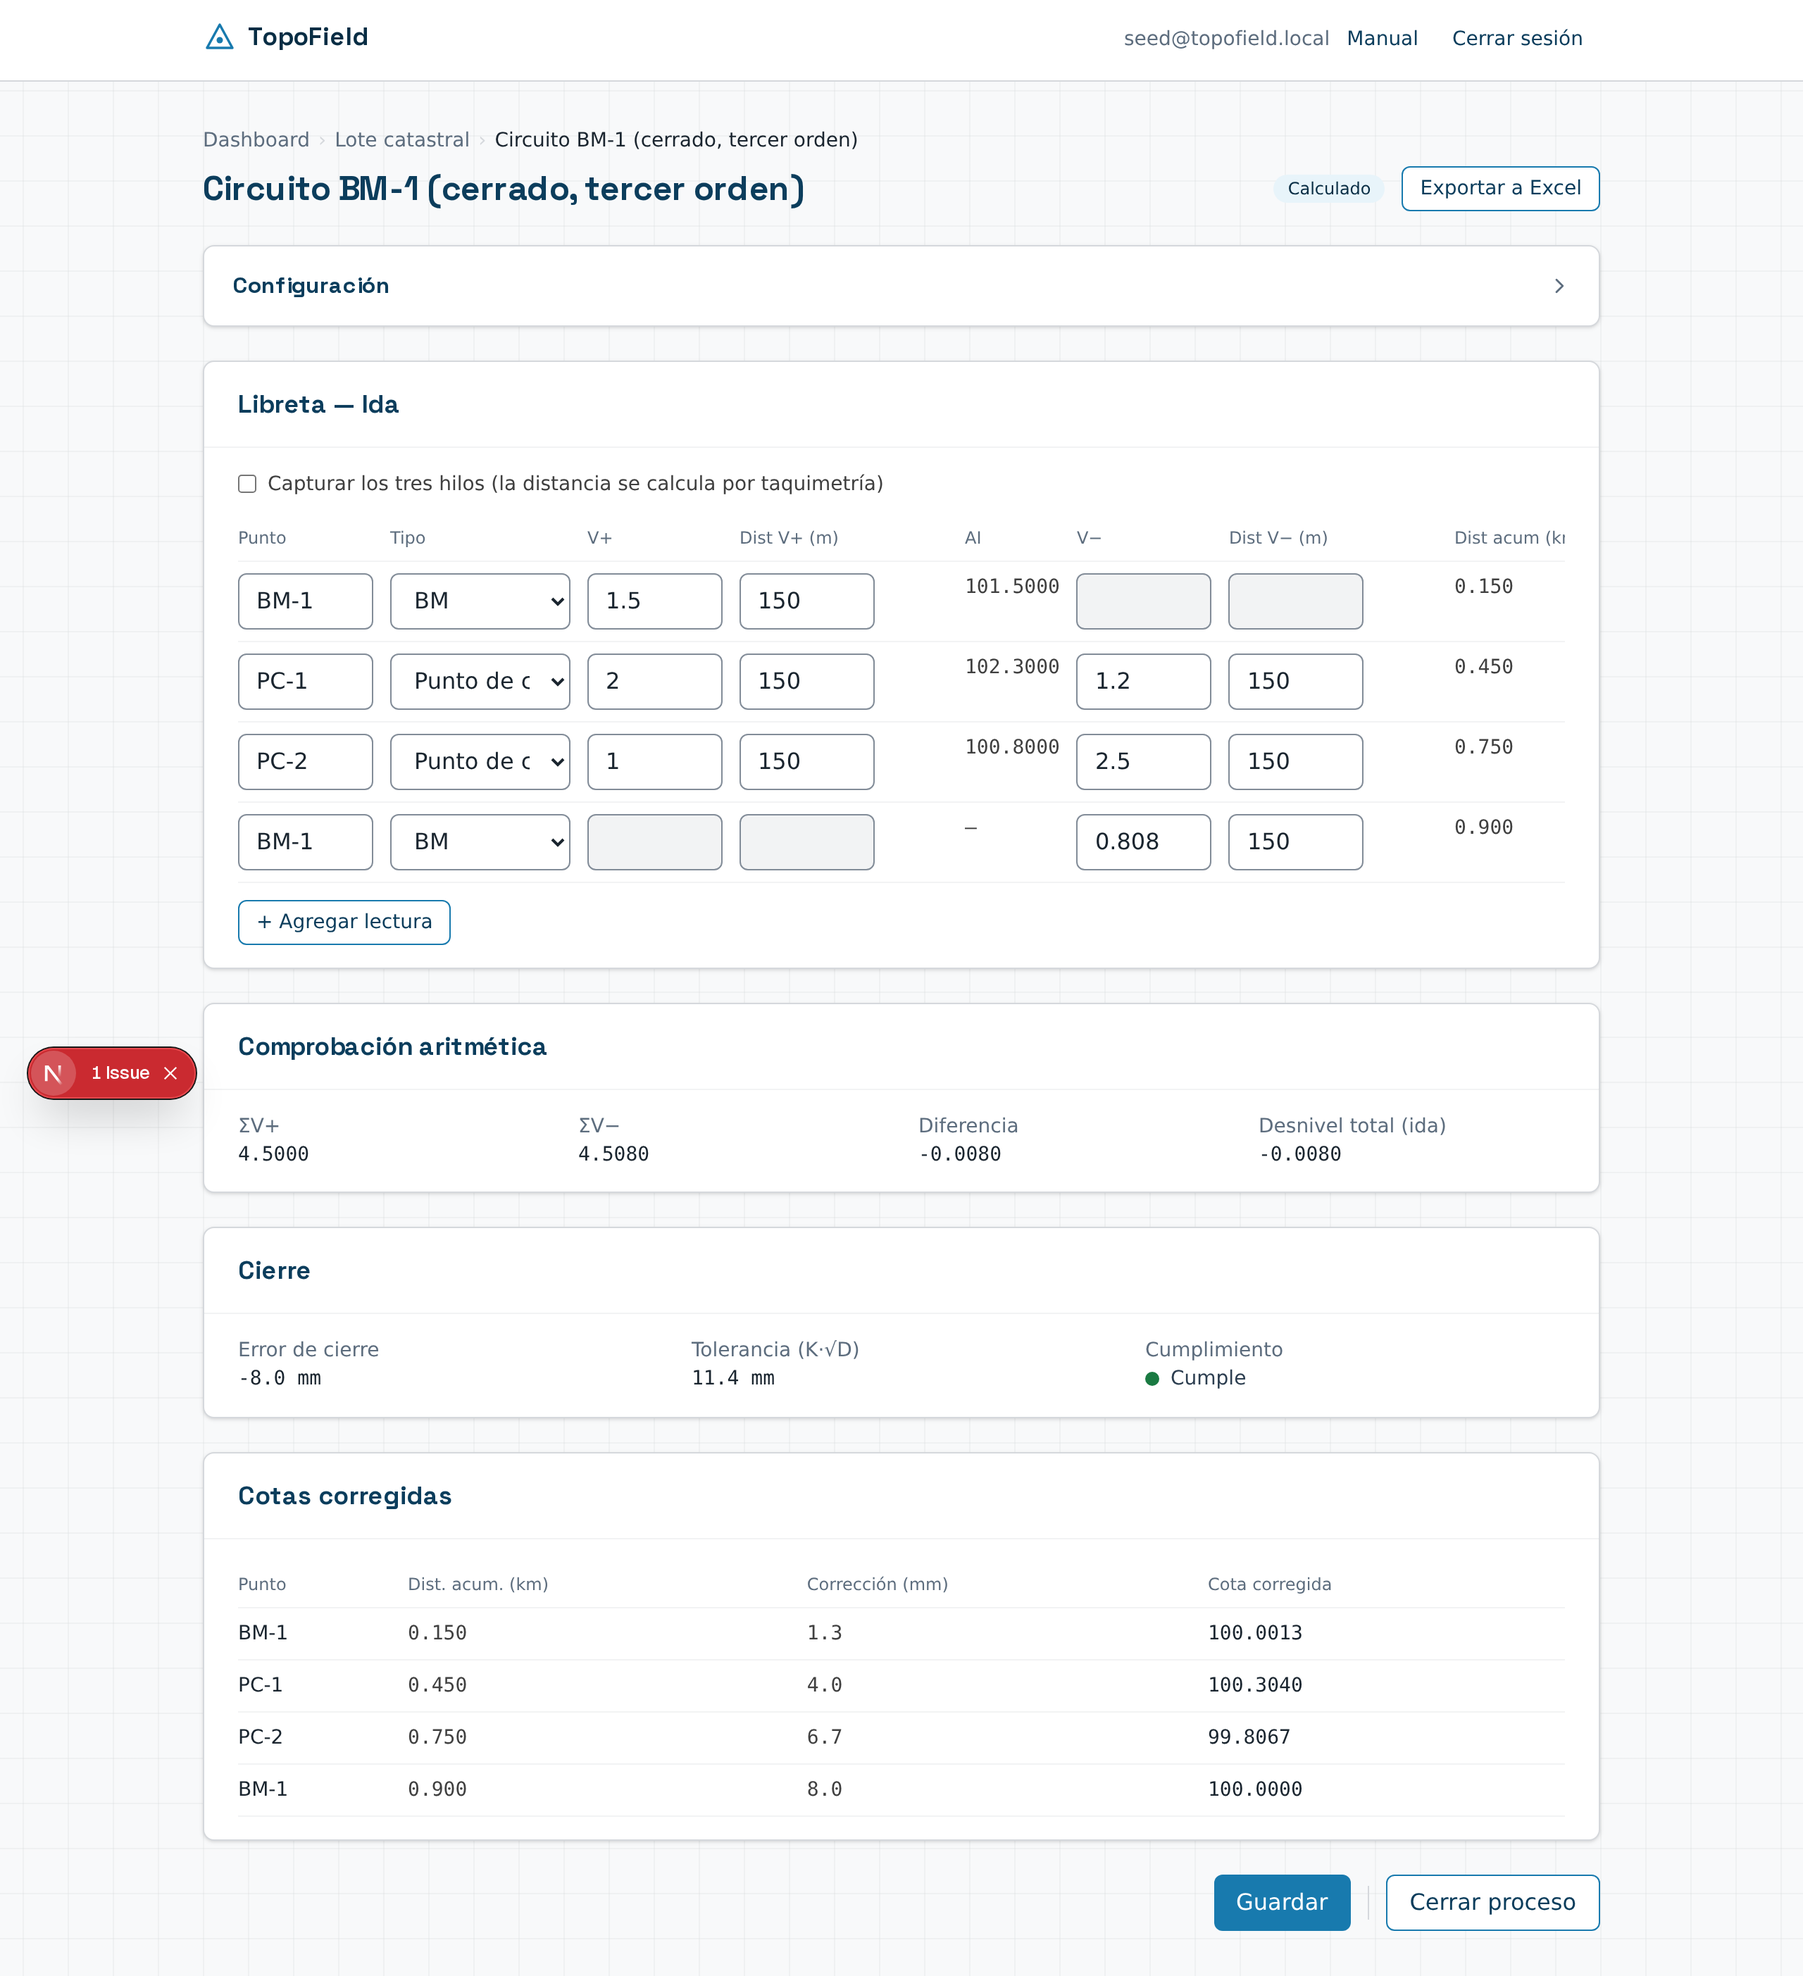
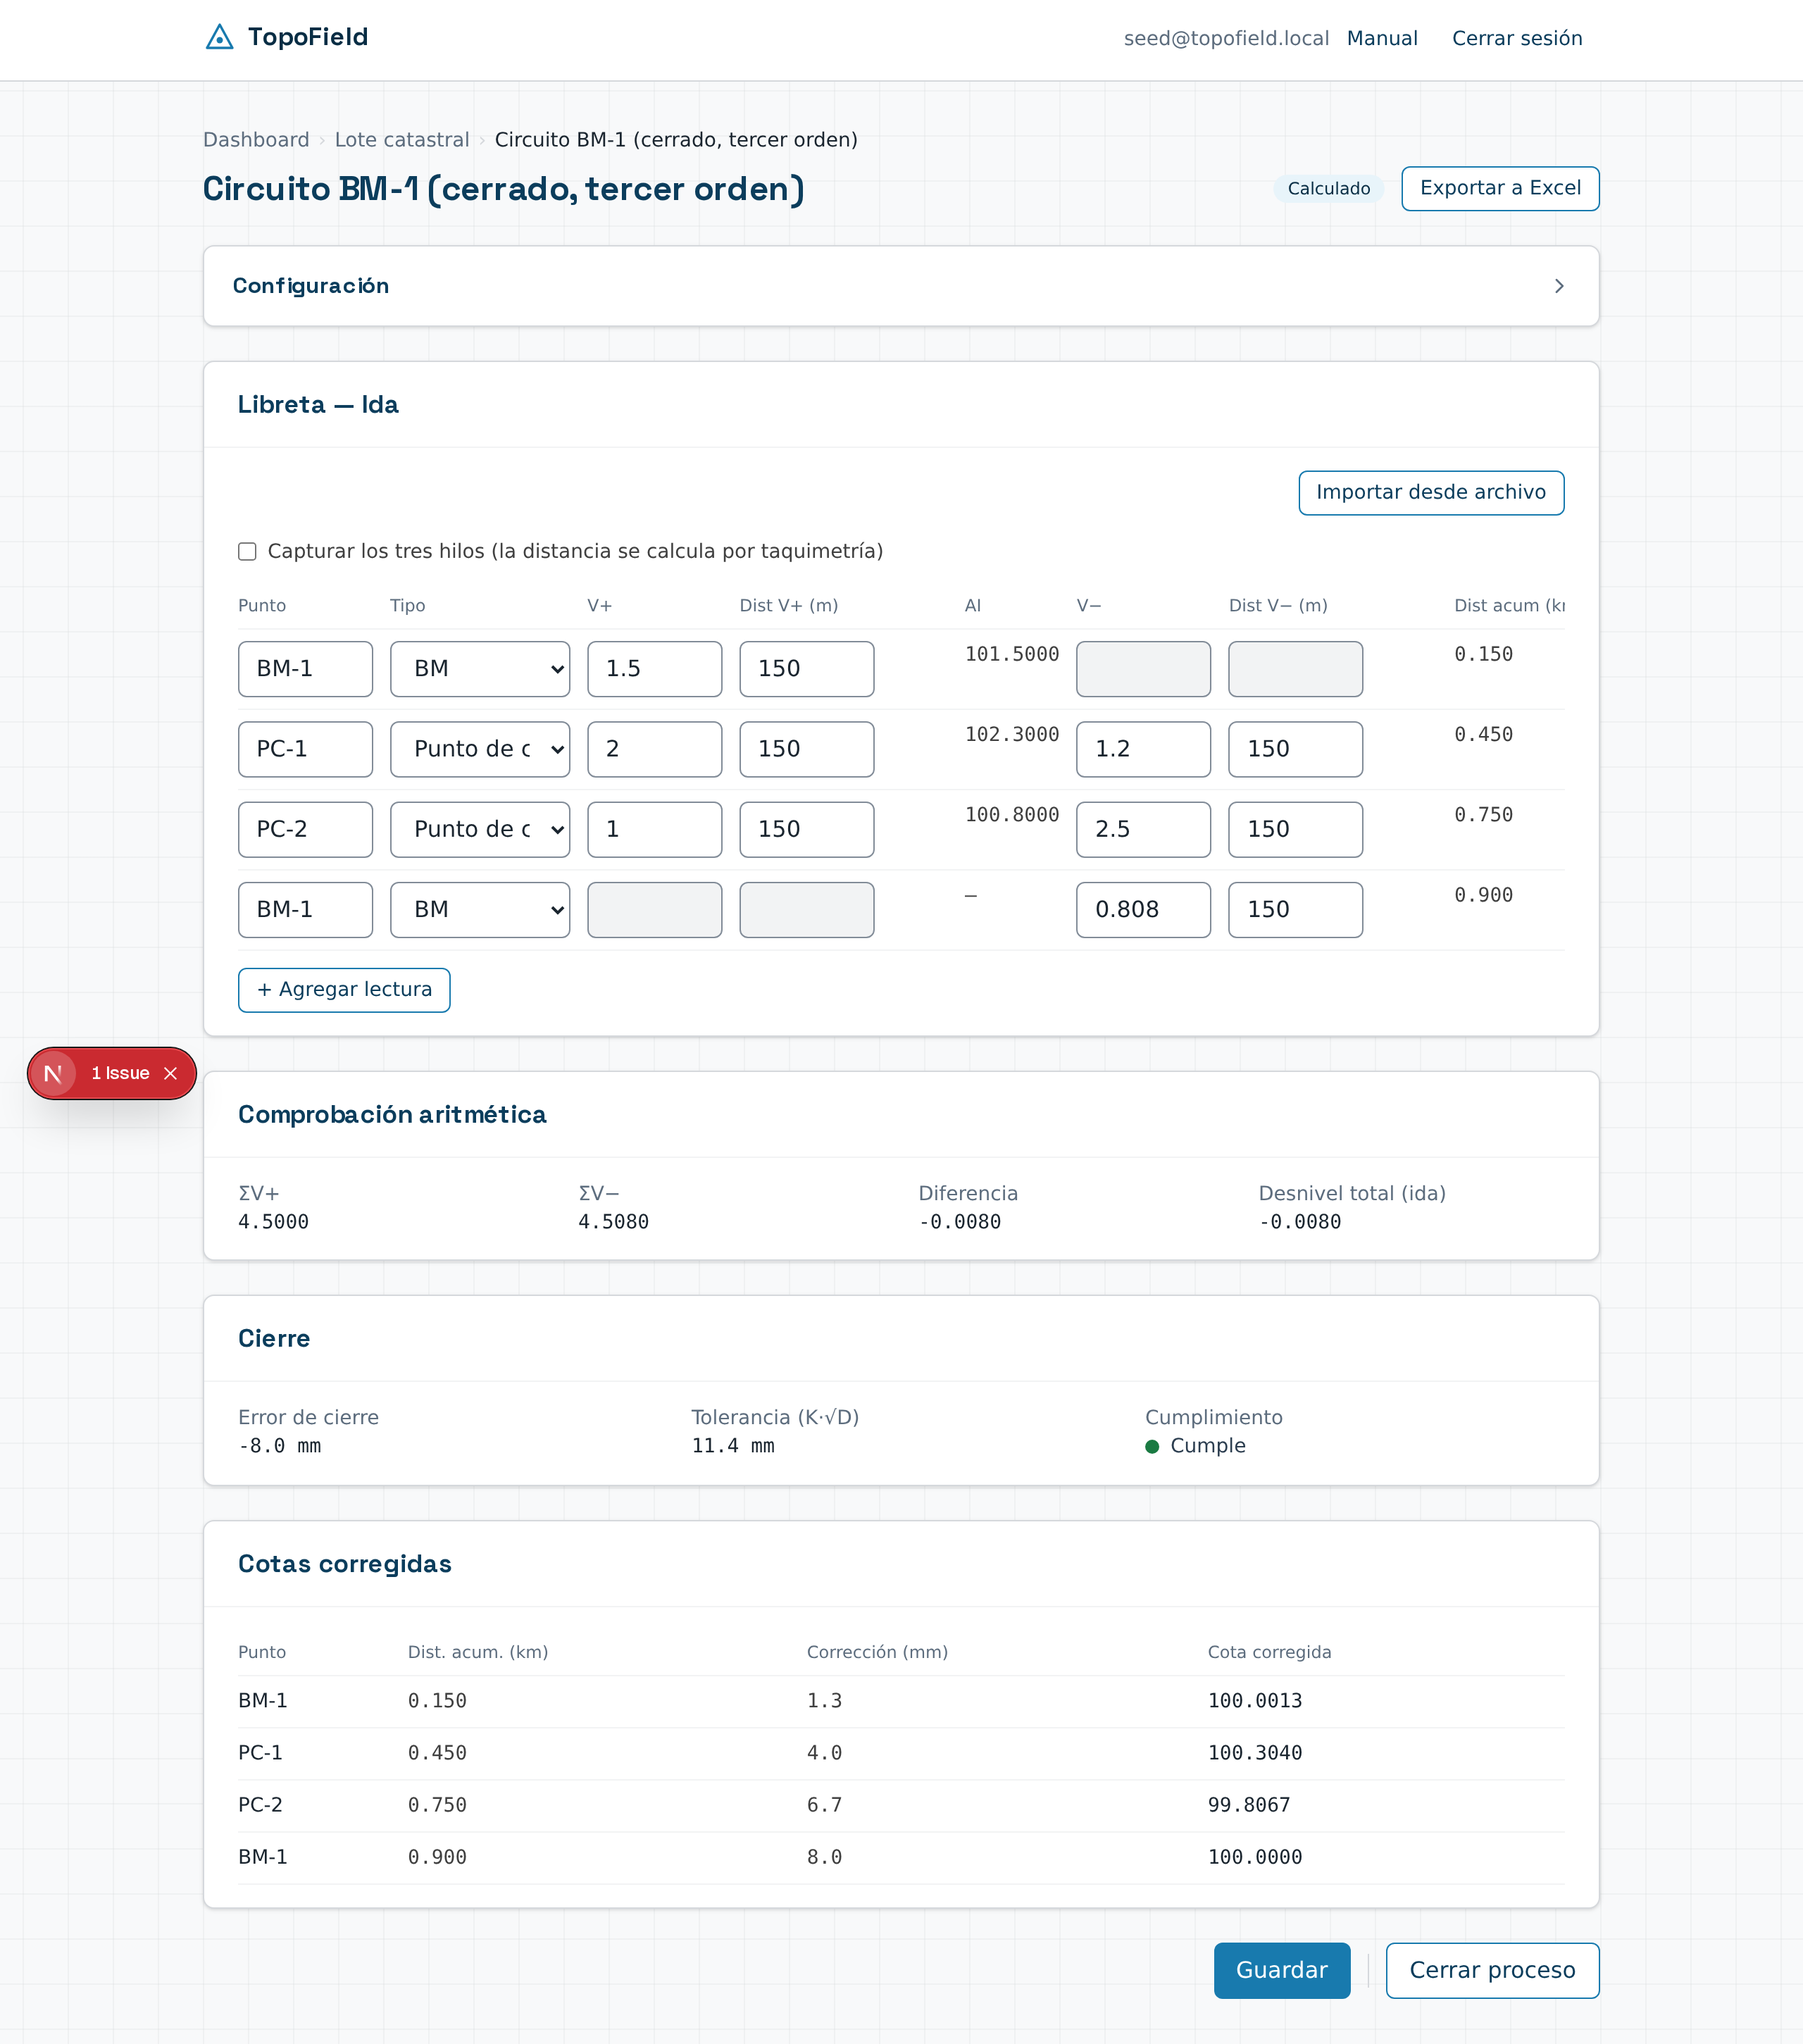
docs: el manual cubre la importación de libretas de nivel digital
Sección 6.7 en las dos copias, con la captura del diálogo sobre el crudo
real; el cierre irreversible pasa a 6.8.

diff --git a/src/app/(app)/manual/page.tsx b/src/app/(app)/manual/page.tsx
@@ -991,7 +991,76 @@ export default function ManualPage() {
         </p>
 
         <h3 className="mt-4 text-lg font-semibold">
-          6.7 Cierre irreversible
+          6.7 Importar desde archivo
+        </h3>
+
+        <p>
+          Con un nivel digital, las lecturas y las distancias ya están en un
+          archivo. <strong>Importar desde archivo</strong> —en la libreta de
+          una nivelación sin cerrar, o al crear una nueva— las pasa a la
+          libreta sin teclearlas.
+        </p>
+
+        <Captura {...CAPTURAS.importarNivelacion} />
+
+        <p>Se leen:</p>
+
+        <ul className="ml-5 list-disc space-y-1">
+          <li>
+            el archivo <strong>.L de un nivel digital Leica</strong>;
+          </li>
+          <li>
+            la <strong>plantilla CSV</strong> de TopoField, que se descarga
+            desde el mismo diálogo, para cualquier otro instrumento: una fila
+            por cada fila de la libreta, con <code>;</code> y coma decimal si
+            viene de Excel en español.
+          </li>
+        </ul>
+
+        <p>
+          El formato se reconoce por el contenido, no por el nombre del
+          archivo. Si no se reconoce, el diálogo dice qué formatos se leen.
+        </p>
+
+        <p>Antes de usar las lecturas, la previsualización deja decidir:</p>
+
+        <ul className="ml-5 list-disc space-y-1">
+          <li>
+            <strong>Cómo se lee el recorrido.</strong> Un archivo que va y
+            vuelve por los mismos puntos puede ser{" "}
+            <strong>un recorrido cerrado</strong> o{" "}
+            <strong>ida y vuelta</strong>. Con ida y vuelta, elija en qué
+            armada empieza la vuelta; se propone la detectada.
+          </li>
+          <li>
+            <strong>La cota del BM de partida</strong>, si la del archivo no
+            coincide con la del proceso.
+          </li>
+          <li>
+            <strong>El tipo de cada punto.</strong> El instrumento no distingue
+            un BM de un punto de cambio o de una radiación: se deduce de su
+            posición y usted lo corrige.
+          </li>
+        </ul>
+
+        <p>
+          El instrumento mide dos veces cada visual; se guarda el{" "}
+          <strong>promedio</strong>, redondeado a 0.1 mm. El diálogo muestra
+          la mayor diferencia entre las dos lecturas y la mayor desviación
+          típica del instrumento, como control.
+        </p>
+
+        <p>
+          Al aceptar, la libreta se reemplaza, el nivel pasa a{" "}
+          <strong>digital</strong> y se propone el tipo de proceso:{" "}
+          <strong>cerrada</strong> si el recorrido vuelve a su BM,{" "}
+          <strong>abierta con vuelta</strong> si es ida y vuelta. En el editor{" "}
+          <strong>no se guarda nada hasta que pulse Guardar</strong>; al crear,
+          el proceso nace con sus lecturas.
+        </p>
+
+        <h3 className="mt-4 text-lg font-semibold">
+          6.8 Cierre irreversible
         </h3>
 
         <p>

diff --git a/src/app/(app)/manual/manual-data.ts b/src/app/(app)/manual/manual-data.ts
@@ -90,12 +90,18 @@ export const CAPTURAS = {
     width: 2560,
     height: 1600,
   },
+  importarNivelacion: {
+    src: "/manual/23-importar-nivelacion.png",
+    alt: "Diálogo Importar libreta desde archivo con el crudo de un nivel digital Leica: 16 armadas, ida y vuelta con la vuelta en la armada 9, la elección de la cota del BM y la libreta de ida con los tipos de punto.",
+    width: 1344,
+    height: 2736,
+  },
   editorNivelacion: {
     src: "/manual/12-editor-nivelacion.png",
     alt: "Editor de nivelación completo: libreta, comprobación aritmética, cierre y cotas corregidas.",
     pie: "Circuito cerrado que cumple la tolerancia: el BM final corrige exacto a su cota conocida.",
     width: 2560,
-    height: 2806,
+    height: 2902,
   },
   nuevoLugar: {
     src: "/manual/13-nuevo-lugar.png",

diff --git a/docs/manual/README.md b/docs/manual/README.md
@@ -621,7 +621,44 @@ La aplicación compara los **desniveles totales** de ambos recorridos. La
 discrepancia entre ellos se contrasta contra **T·√2**, donde T es la misma
 tolerancia K·√D del cierre individual.
 
-### 6.7 Cierre irreversible
+### 6.7 Importar desde archivo
+
+Con un nivel digital, las lecturas y las distancias ya están en un archivo.
+**Importar desde archivo** —en la libreta de una nivelación sin cerrar, o al
+crear una nueva— las pasa a la libreta sin teclearlas.
+
+![Importar el crudo de un nivel digital Leica](../../public/manual/23-importar-nivelacion.png)
+
+Se leen:
+
+- el archivo **.L de un nivel digital Leica**;
+- la **plantilla CSV** de TopoField, que se descarga desde el mismo diálogo,
+  para cualquier otro instrumento: una fila por cada fila de la libreta, con
+  `;` y coma decimal si viene de Excel en español.
+
+El formato se reconoce por el contenido, no por el nombre del archivo. Si no
+se reconoce, el diálogo dice qué formatos se leen.
+
+Antes de usar las lecturas, la previsualización deja decidir:
+
+- **Cómo se lee el recorrido.** Un archivo que va y vuelve por los mismos
+  puntos puede ser **un recorrido cerrado** o **ida y vuelta**. Con ida y
+  vuelta, elija en qué armada empieza la vuelta; se propone la detectada.
+- **La cota del BM de partida**, si la del archivo no coincide con la del
+  proceso.
+- **El tipo de cada punto.** El instrumento no distingue un BM de un punto de
+  cambio o de una radiación: se deduce de su posición y usted lo corrige.
+
+El instrumento mide dos veces cada visual; se guarda el **promedio**,
+redondeado a 0.1 mm. El diálogo muestra la mayor diferencia entre las dos
+lecturas y la mayor desviación típica del instrumento, como control.
+
+Al aceptar, la libreta se reemplaza, el nivel pasa a **digital** y se propone
+el tipo de proceso: **cerrada** si el recorrido vuelve a su BM, **abierta con
+vuelta** si es ida y vuelta. En el editor **no se guarda nada hasta que pulse
+Guardar**; al crear, el proceso nace con sus lecturas.
+
+### 6.8 Cierre irreversible
 
 Igual que en poligonales, cerrar una nivelación es **irreversible**
 (§ 7). Un trabajo que no alcanza la tolerancia solo puede cerrarse como
